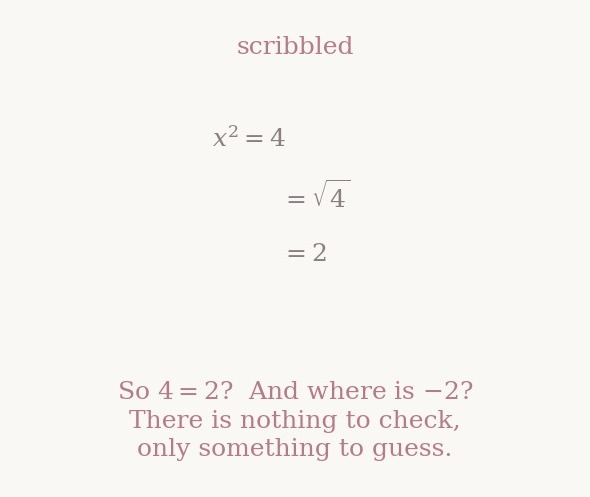
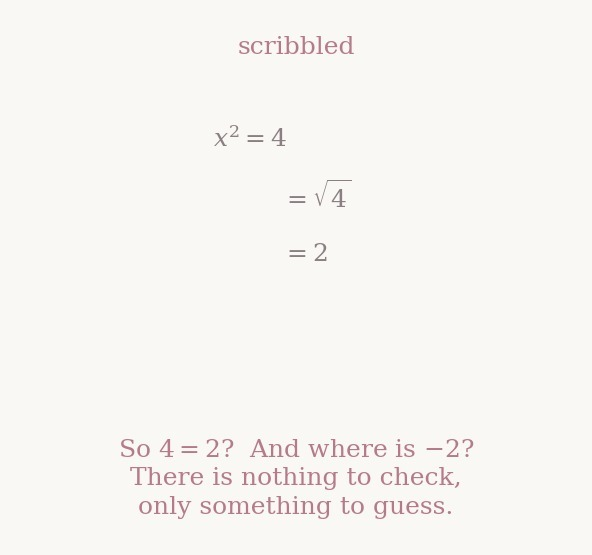
math-writing: written side starts with Let x in R. Then:

diff --git a/math-writing/math_writing_card.py b/math-writing/math_writing_card.py
@@ -46,14 +46,15 @@ else:
     left = [(r'$x^2 = 4$', 0.19), (r'$= \sqrt{4}$', 0.24), (r'$= 2$', 0.24)]
     for i, (t, xf) in enumerate(left):
         ax.text(W * xf, y0 - i * step, t, ha='left', va='center', fontsize=ff, color=MUTED, family='serif')
-    lines = [r'Let $x \in \mathbb{R}$ and $x^2 = 4$.',
+    lines = [r'Let $x \in \mathbb{R}$. Then:',
+             r'$x^2 = 4$',
              r'$\Leftrightarrow\; x^2 - 4 = 0$',
              r'$\Leftrightarrow\; (x-2)(x+2) = 0$',
              r'$\Leftrightarrow\; x = 2$ or $x = -2$.']
     rstep = step   # same line spacing on both sides
     for i, t in enumerate(lines):
         ax.text(W * 0.56, y0 - i * rstep, t, ha='left', va='center', fontsize=ff, color=DARK, family='serif')
-    ycap = y0 - 3 * rstep - 1.9 * step
+    ycap = y0 - 4 * rstep - 1.9 * step
     ax.text(W * 0.25, ycap, caption_left, ha='center', va='center', fontsize=fc, linespacing=1.3, family='serif', color=ROSE)
     ax.text(W * 0.75, ycap, caption_right, ha='center', va='center', fontsize=fc, linespacing=1.3, family='serif', color=TERRA)
 
